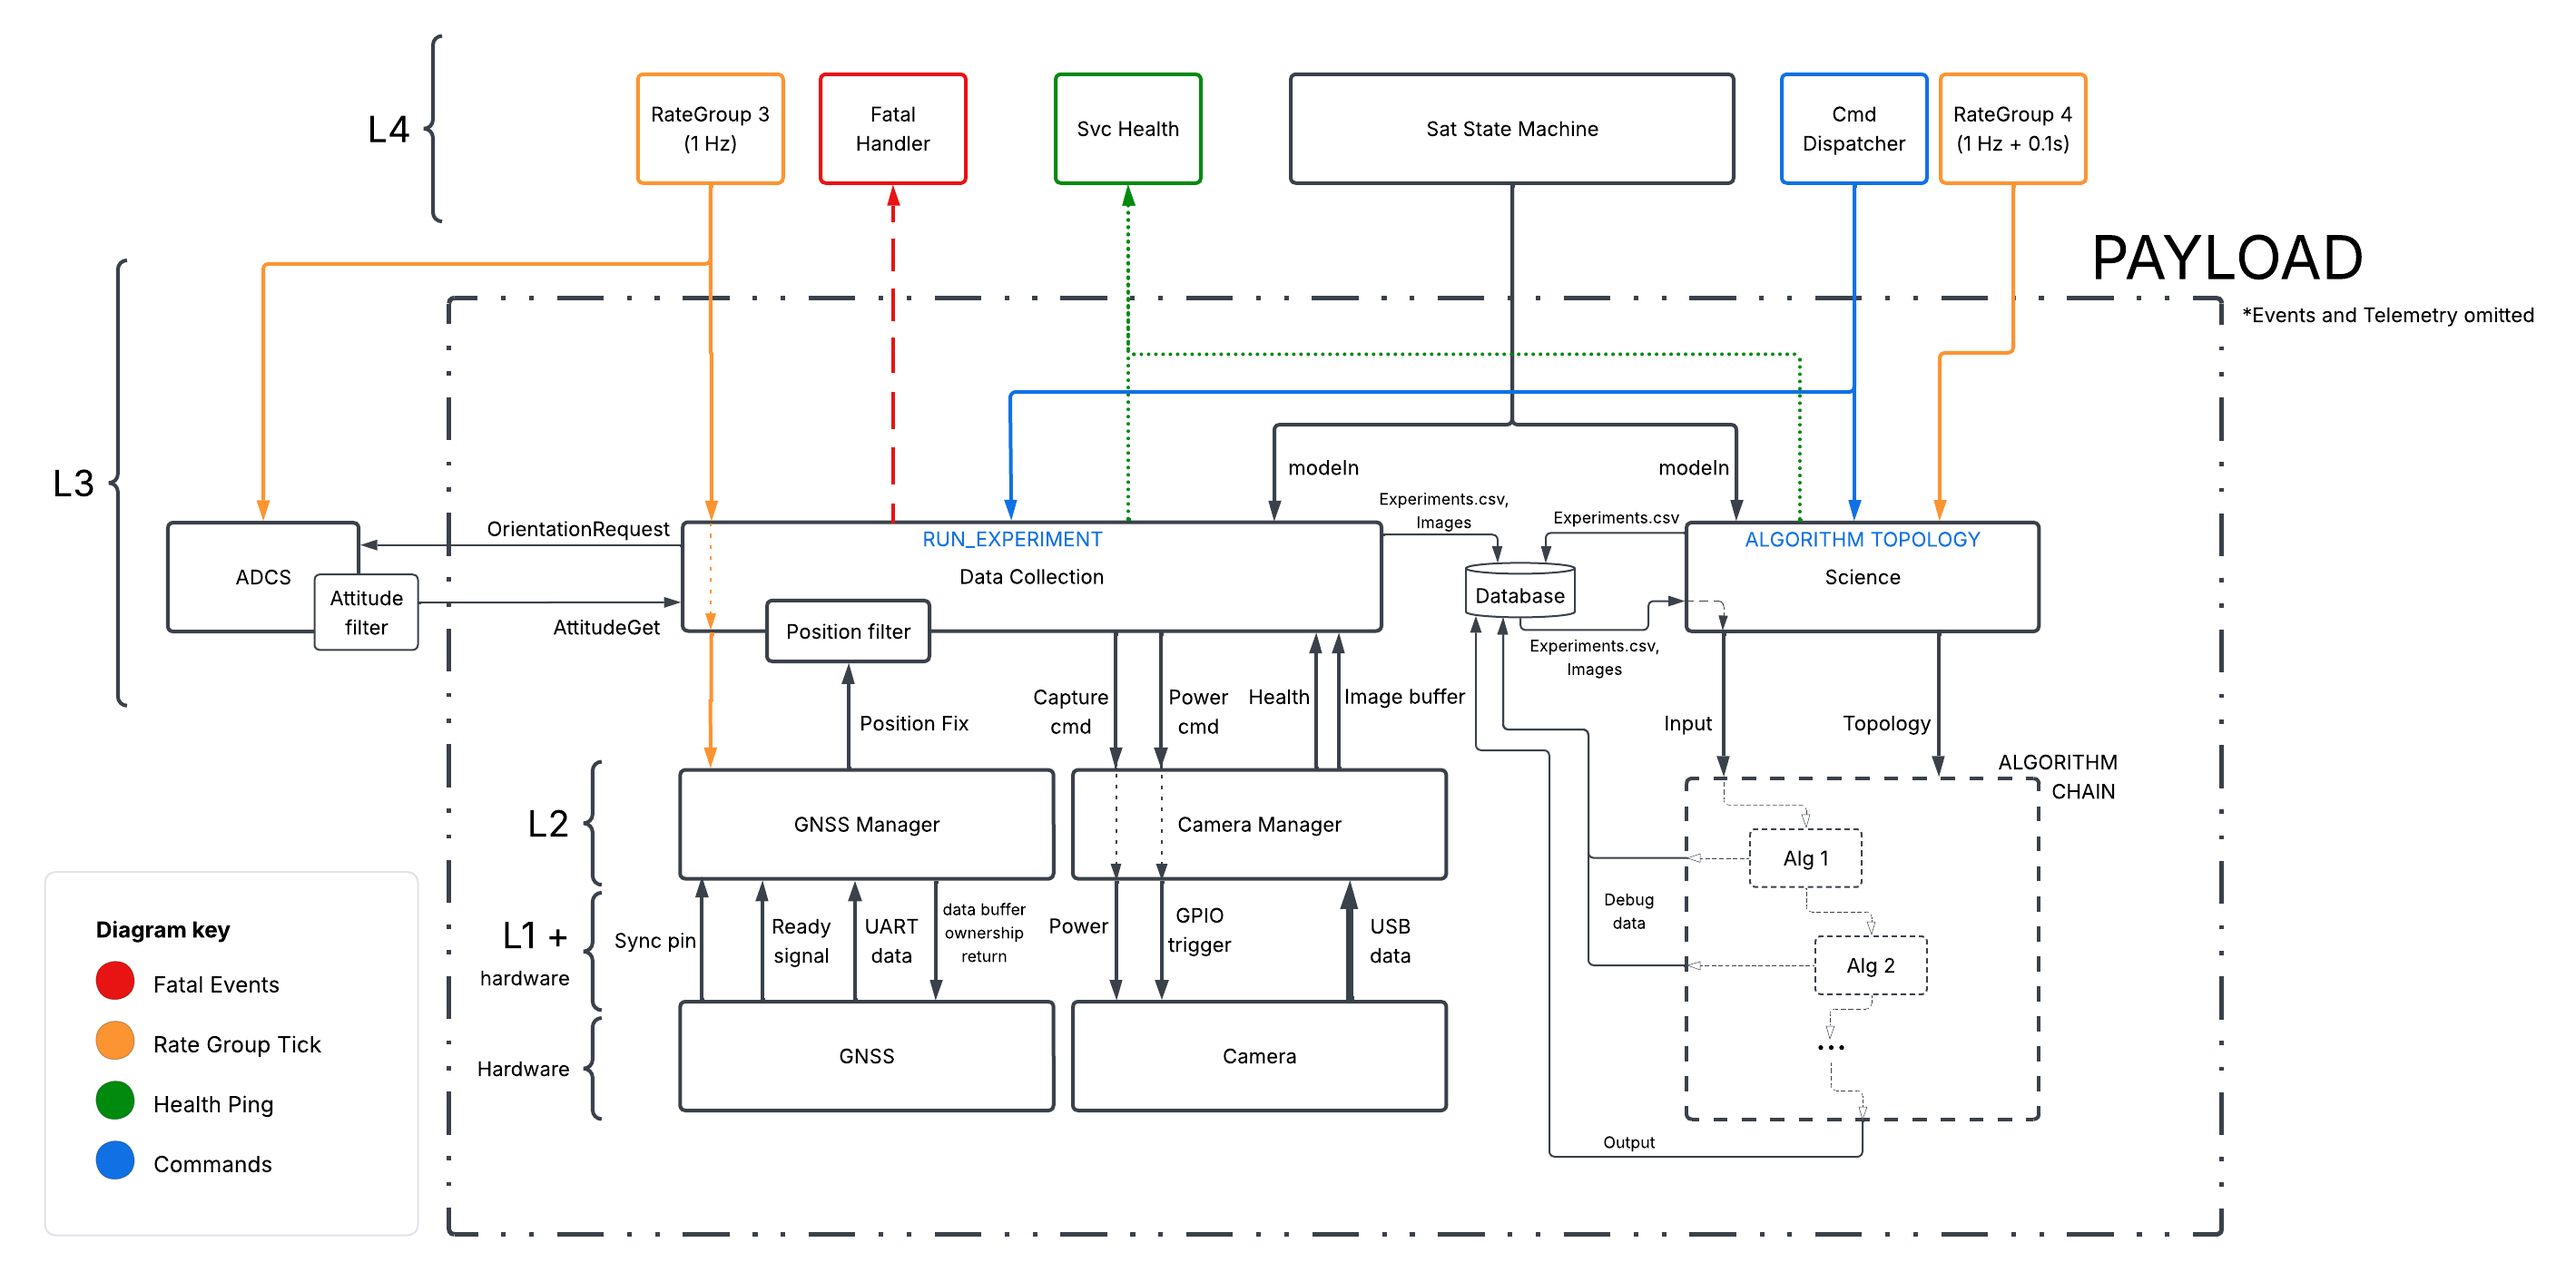
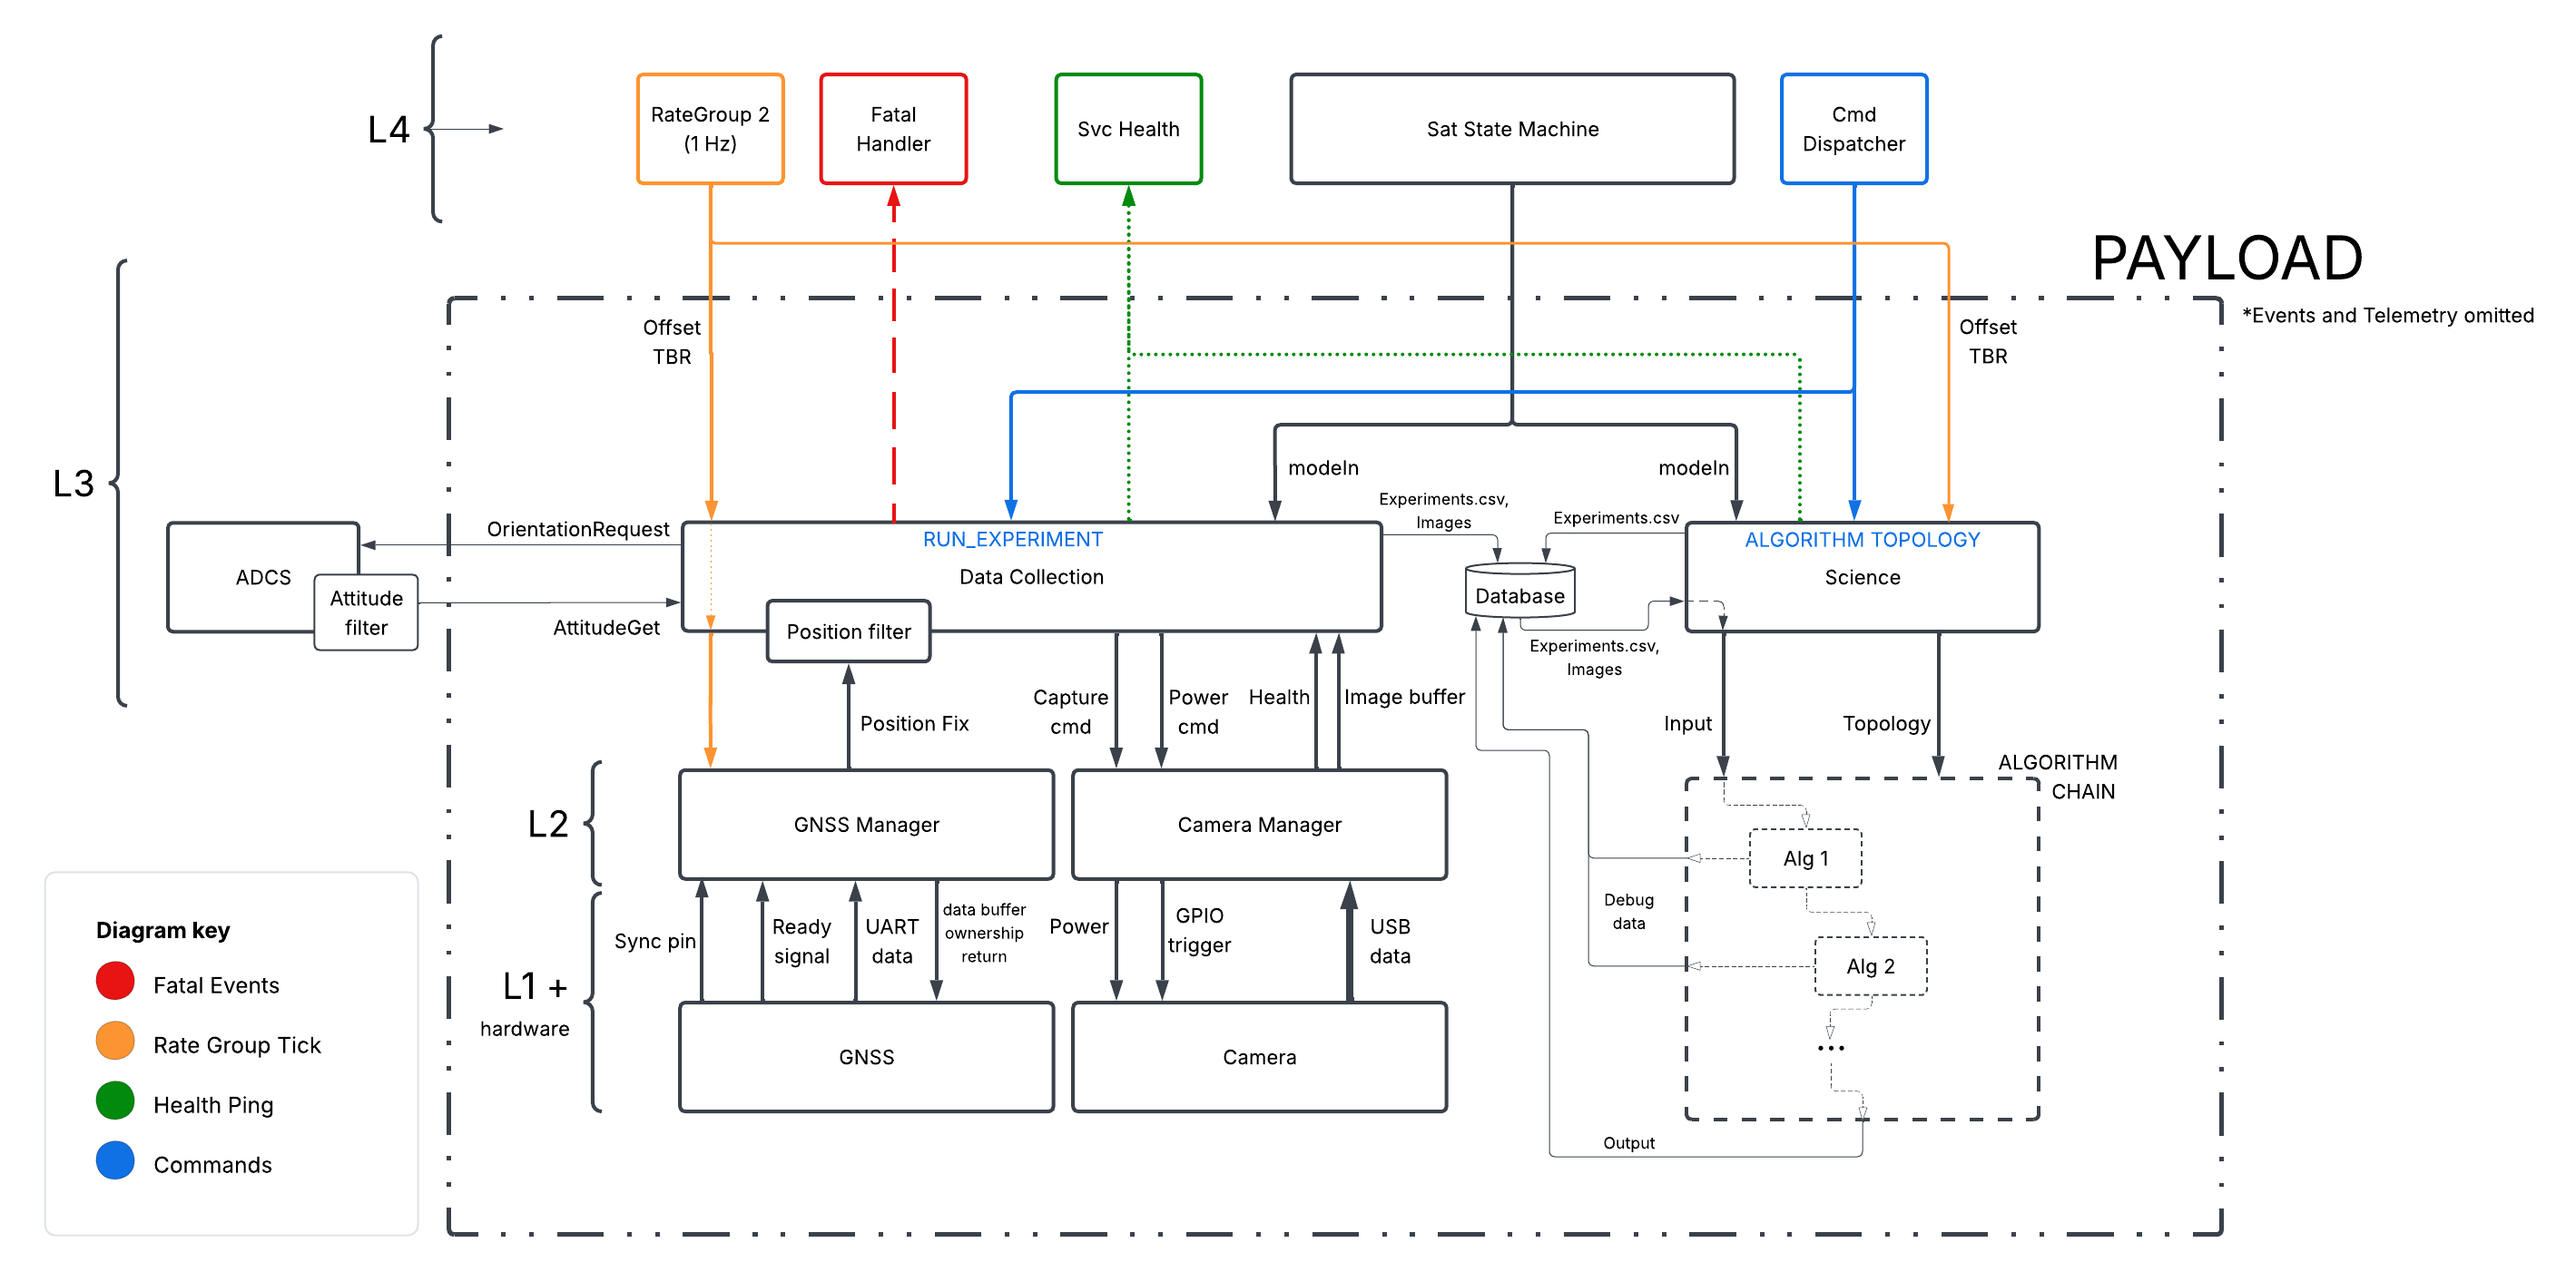
final SDD for now

diff --git a/docs/Reference/Fprime/ProvidedSystemServices.md b/docs/Reference/Fprime/ProvidedSystemServices.md
@@ -36,6 +36,20 @@ These F' components provide deployment-wide telemetry, health, scheduling, and v
 [RateGroupDriver software design document](https://fprime.jpl.nasa.gov/latest/Svc/RateGroupDriver/docs/sdd/)  
 [ActiveRateGroup source and interface](https://github.com/nasa/fprime/tree/devel/Svc/ActiveRateGroup)
 
+HuskySat-2 designates the primary rate groups as follows:
+
+| Rate group | Frequency | Role |
+|------------|-----------|------|
+| `RateGroup1` | 10 Hz | Fast ADCS sensing, estimation, and control work. |
+| `RateGroup2` | 1 Hz | Satellite-state evaluation and nominal application, manager, and housekeeping work. |
+| `RateGroup3` | 0.1 Hz | Lower-rate ADCS and payload work that does not require the faster control-loop cadence. |
+
+### HuskySat-2 rate-group offsets
+
+The PAY and ADCS deployments will use configured phase offsets for selected work within an active rate-group period. For example, PAY will phase camera triggers, camera measurements, and associated attitude or position sampling; ADCS will phase sensor reads, filter updates, and actuator commands. These offsets keep the relative timing of measurements and commands repeatable, reduce contention from simultaneous thread wake-ups, and limit the effect of Linux scheduler jitter on control and image-capture timing.
+
+The exact offsets and allowable jitter will be determined through hardware and deployment timing tests. Components will use the rate-group tick together with available hardware or measurement timestamps, so an offset will provide scheduling guidance rather than replace a sensor timestamp. If work misses its expected phase or produces stale data, the owning application will detect that condition and will not treat the sample as current.
+
 ## Svc::Version
 
 **Type:** Passive component.

diff --git a/docs/Reference/Introduction/RevisionHistory.md b/docs/Reference/Introduction/RevisionHistory.md
@@ -17,5 +17,6 @@ The project history identifies an initial LaTeX version of the SDD authored by *
 | September 10, 2026 | Senuka Liyanage; Eleanor Marso; Ojeet Deol; Mahir Emran | Reorganized the SDD, resolved naming and diagram conflicts, aligned ADCS and SatStateMachine interfaces, documented communications events, and updated subsystem modes and application behavior. |
 | September 11–15, 2026 | Senuka Liyanage; Eleanor Marso; Mahir Emran | Integrated the latest Science Inference, Thermal, Camera, StarTracker, SatStateMachine, and ADCS application updates, including state diagrams, table fixes, Kalman-filter material, and the ADCS topology diagram. |
 | September 16, 2026 | Senuka Liyanage; Mahir Emran | Integrated the latest Data Collection, Camera Manager, and Science Application changes from `main`; standardized the component name as `ScienceApplication`, resolved the file-name conflict, and aligned the merged content with the current SDD structure. |
+| September 16, 2026 (diagram update) | Mahir Emran | Replaced the high-level, payload, and thermal topology figures; added communications and EPS topology figures; documented PAY/ADCS ActiveRateGroup phase offsets; and clarified the 10 Hz, 1 Hz, and 0.1 Hz rate-group assignments. |
 
 The current PDF build also includes document-structure, formatting, and compilation fixes maintained on the SDD build branch.
